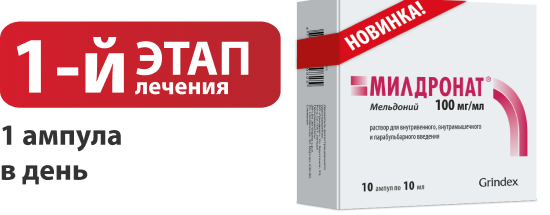
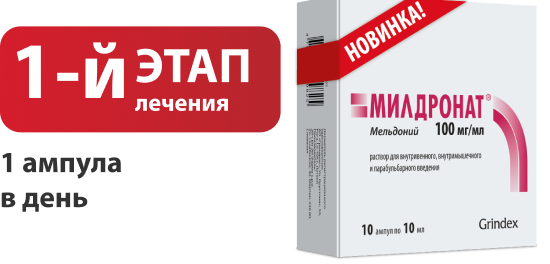
Add files via upload

diff --git a/index.html b/index.html
@@ -389,7 +389,7 @@
     </p>
     <div class="images-container">
         <div class="image-item1 fade-in">
-            <img src="img/1 stage.png" alt="Ампулы 100 мг/мл – № 10" class="image">
+            <img src="img/1 stage.png" alt="Ампулы 100 мг/мл – № 10" class="image image1">
             <div class="image-caption">
                 <span class="caption-text">Ампулы</span> 100 мг/мл – № 10
             </div>

diff --git a/style.css b/style.css
@@ -2141,6 +2141,9 @@ ul li img {
     text-align: center;
 
 }
+.image1 {
+    height: 144px;
+}
 .image {
     max-width: 90%;
 }
